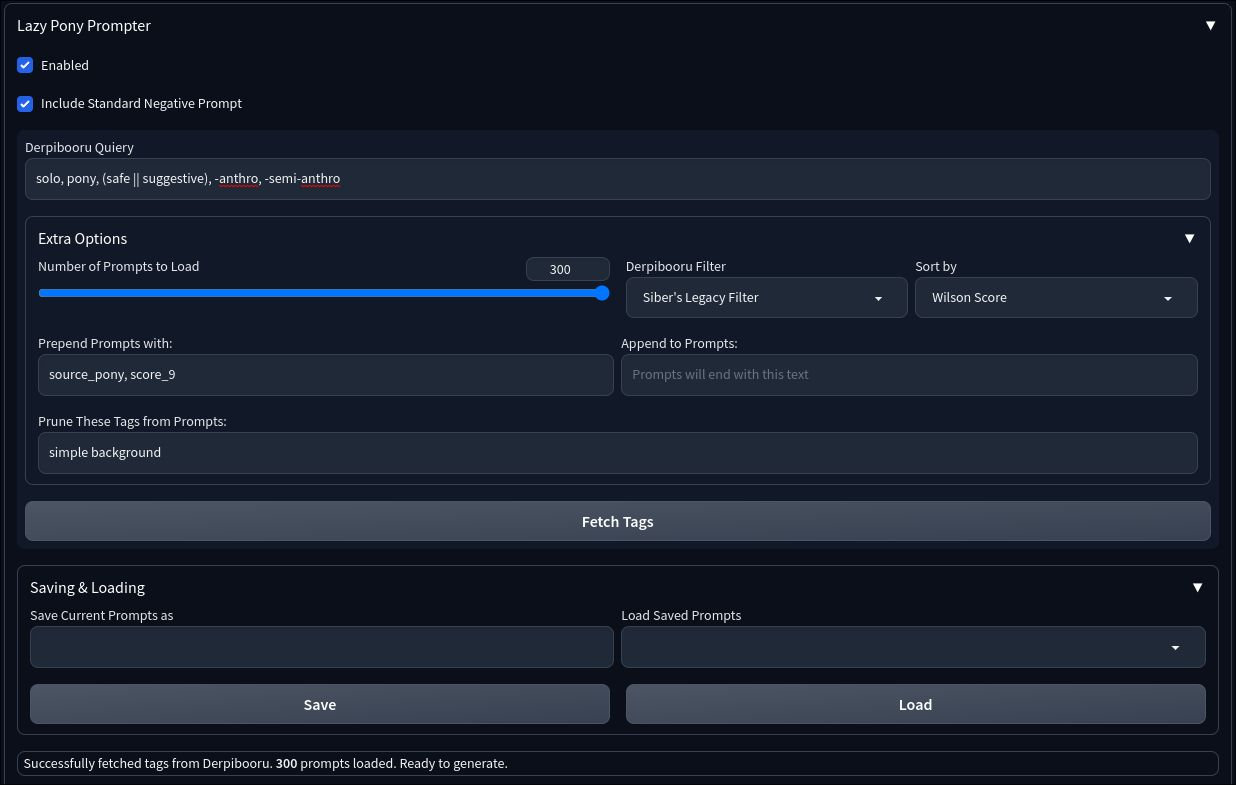
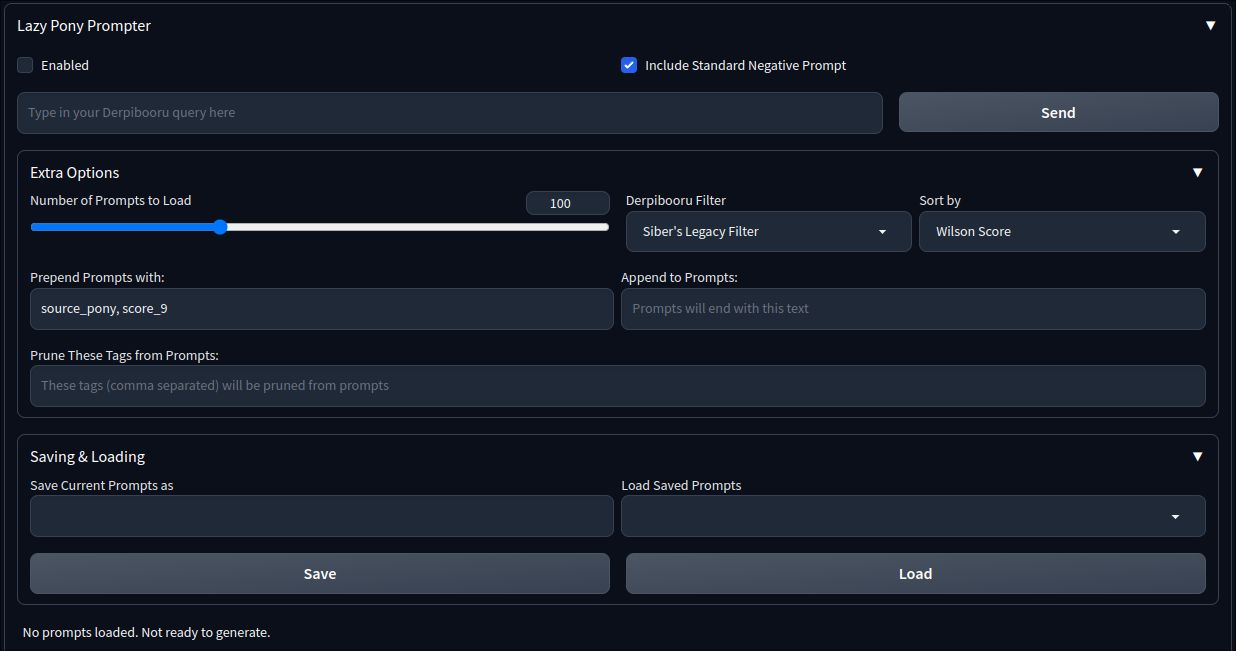
Refined UI to be more compact.

Changed region(s): [[0.0, 0.5223, 0.9838, 0.9831], [0.0, 0.0, 1.0, 0.4916], [0.9531, 0.0, 0.9838, 0.0307]]

diff --git a/scripts/lpp_extension.py b/scripts/lpp_extension.py
@@ -29,68 +29,70 @@ class Scripts(scripts.Script):
             "Lazy Pony Prompter",
             open=self.config["start_unfolded"]
         ):
-            enabled = gr.Checkbox(
-                label="Enabled",
-                value=self.config["enabled"]
-            )
-            auto_negative_prompt = gr.Checkbox(
-                label="Include Standard Negative Prompt",
-                value=self.config["include_standard_negative_prompt"]
-            )
+            with gr.Row():
+                enabled = gr.Checkbox(
+                    label="Enabled",
+                    value=self.config["enabled"]
+                )
+                auto_negative_prompt = gr.Checkbox(
+                    label="Include Standard Negative Prompt",
+                    value=self.config["include_standard_negative_prompt"]
+                )
 
             # Derpibooru Query Panel ------------------------------------------
-            with gr.Column(variant="panel"):
-                query_textbox = gr.Textbox(
-                    label="Derpibooru Quiery",
-                    placeholder="Type in your Derpibooru query here"
-                )
-                with gr.Accordion(
-                    "Extra Options",
-                    open=self.config["extra_options_start_unfolded"]
-                ):
-                    with gr.Row():
-                        with gr.Column():
-                            prompts_count = gr.Slider(
-                                label="Number of Prompts to Load",
-                                minimum=self.config["prompts_count"]["min"],
-                                maximum=self.config["prompts_count"]["max"],
-                                step=self.config["prompts_count"]["step"],
-                                value=self.config["prompts_count"]["default"]
+            with gr.Row():
+                with gr.Column(scale=3):
+                    query_textbox = gr.Textbox(
+                        placeholder="Type in your Derpibooru query here",
+                        show_label=False
+                    )
+                with gr.Column(scale=1):
+                    fetch_tags_btn = gr.Button(value="Send")
+
+            # Extra Options Panel ---------------------------------------------
+            with gr.Accordion(
+                "Extra Options",
+                open=self.config["extra_options_start_unfolded"]
+            ):
+                with gr.Row():
+                    with gr.Column():
+                        prompts_count = gr.Slider(
+                            label="Number of Prompts to Load",
+                            minimum=self.config["prompts_count"]["min"],
+                            maximum=self.config["prompts_count"]["max"],
+                            step=self.config["prompts_count"]["step"],
+                            value=self.config["prompts_count"]["default"]
+                        )
+                    with gr.Column():
+                        with gr.Row():
+                            filter_type = gr.Dropdown(
+                                label="Derpibooru Filter",
+                                choices=self.lpp.get_filter_names()
                             )
-                        with gr.Column():
-                            with gr.Row():
-                                filter_type = gr.Dropdown(
-                                    label="Derpibooru Filter",
-                                    choices=self.lpp.get_filter_names()
-                                )
-                                filter_type.value = filter_type.choices[0]
-                                sort_type = gr.Dropdown(
-                                    label="Sort by",
-                                    choices=self.lpp.get_sort_option_names()
-                                )
-                                sort_type.value = sort_type.choices[0]
-                    with gr.Row():
-                        prepend = gr.Textbox(
-                            label="Prepend Prompts with:",
-                            interactive=True,
-                            value=self.config["prepend"],
-                            placeholder="Prompts will begin with this text"
-                        )
-                        append = gr.Textbox(
-                            label="Append to Prompts:",
-                            value=self.config["append"],
-                            interactive=True,
-                            placeholder="Prompts will end with this text"
-                        )
-                    with gr.Row():
-                        tag_filter = gr.Textbox(
-                            label="Prune These Tags from Prompts:",
-                            placeholder="These tags (comma separated) will be pruned from prompts"
-                        )
-                fetch_tags_btn = gr.Button(
-                    value="Fetch Tags",
-                    size="sm"
-                )
+                            filter_type.value = filter_type.choices[0]
+                            sort_type = gr.Dropdown(
+                                label="Sort by",
+                                choices=self.lpp.get_sort_option_names()
+                            )
+                            sort_type.value = sort_type.choices[0]
+                with gr.Row():
+                    prepend = gr.Textbox(
+                        label="Prepend Prompts with:",
+                        interactive=True,
+                        value=self.config["prepend"],
+                        placeholder="Prompts will begin with this text"
+                    )
+                    append = gr.Textbox(
+                        label="Append to Prompts:",
+                        value=self.config["append"],
+                        interactive=True,
+                        placeholder="Prompts will end with this text"
+                    )
+                with gr.Row():
+                    tag_filter = gr.Textbox(
+                        label="Prune These Tags from Prompts:",
+                        placeholder="These tags (comma separated) will be pruned from prompts"
+                    )
 
             # Save/Load Prompts Panel -----------------------------------------
             with gr.Accordion("Saving & Loading", open=False):
@@ -103,20 +105,13 @@ class Scripts(scripts.Script):
                         choices=self.lpp.get_cached_prompts_names()
                     )
                 with gr.Row():
-                    save_prompts_btn = gr.Button(
-                        value="Save",
-                        size="sm"
-                    )
-                    load_prompts_btn = gr.Button(
-                        value="Load",
-                        size="sm"
-                    )
+                    save_prompts_btn = gr.Button(value="Save")
+                    load_prompts_btn = gr.Button(value="Load")
 
             # Status Bar ------------------------------------------------------
-            with gr.Box():
-                status_bar = gr.Markdown(
-                    value=f"&nbsp;&nbsp;{get_lpp_status()}"
-                )
+            status_bar = gr.Markdown(
+                value=f"&nbsp;&nbsp;{get_lpp_status()}"
+            )
 
             # A1111 will cache ui control values in ui_config.json and "freeze"
             # them without this attribute.

diff --git a/README.md b/README.md
@@ -47,7 +47,7 @@ First thing you would do is type in or paste your query into the "Derpibooru Que
 * **Append to Prompts** - this text will be appended to all prompts;
 * **Prune These Tags from Prompts** - you can specify additional tags to prune from prompts here (comma separated). *Note:* this doesn't affect the actual query.
 
-Once you're happy with the settings, it's finally time to click the `Fetch Tags` button. This will prompt LPP to send the search query to Derpibooru and generate prompts from the returned tag data. If all goes well, you'll see "Successfully fetched tags from Derpibooru. **X** prompts loaded. Ready to generate." in the LPP status bar at the very bottom. This means that LPP is now ready to poni and all you have to do is tick the `☑ Enabled` checkbox at the very top and hit the `Generate` button.
+Once you're happy with the settings, it's finally time to click the `Send` button. This will prompt LPP to send the search query to Derpibooru and generate prompts from the returned tag data. If all goes well, you'll see "Successfully fetched tags from Derpibooru. **X** prompts loaded. Ready to generate." in the LPP status bar at the very bottom. This means that LPP is now ready to poni and all you have to do is tick the `☑ Enabled` checkbox at the very top and hit the `Generate` button.
 
 > **Note**
 >
